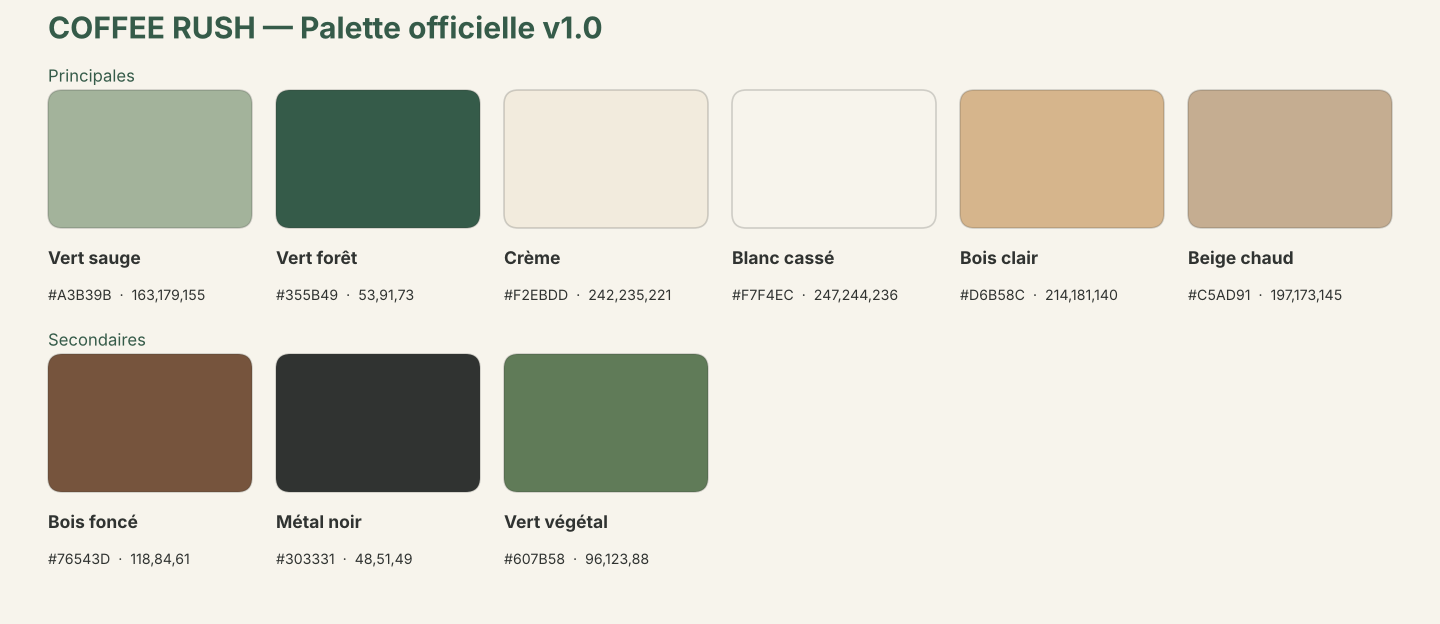
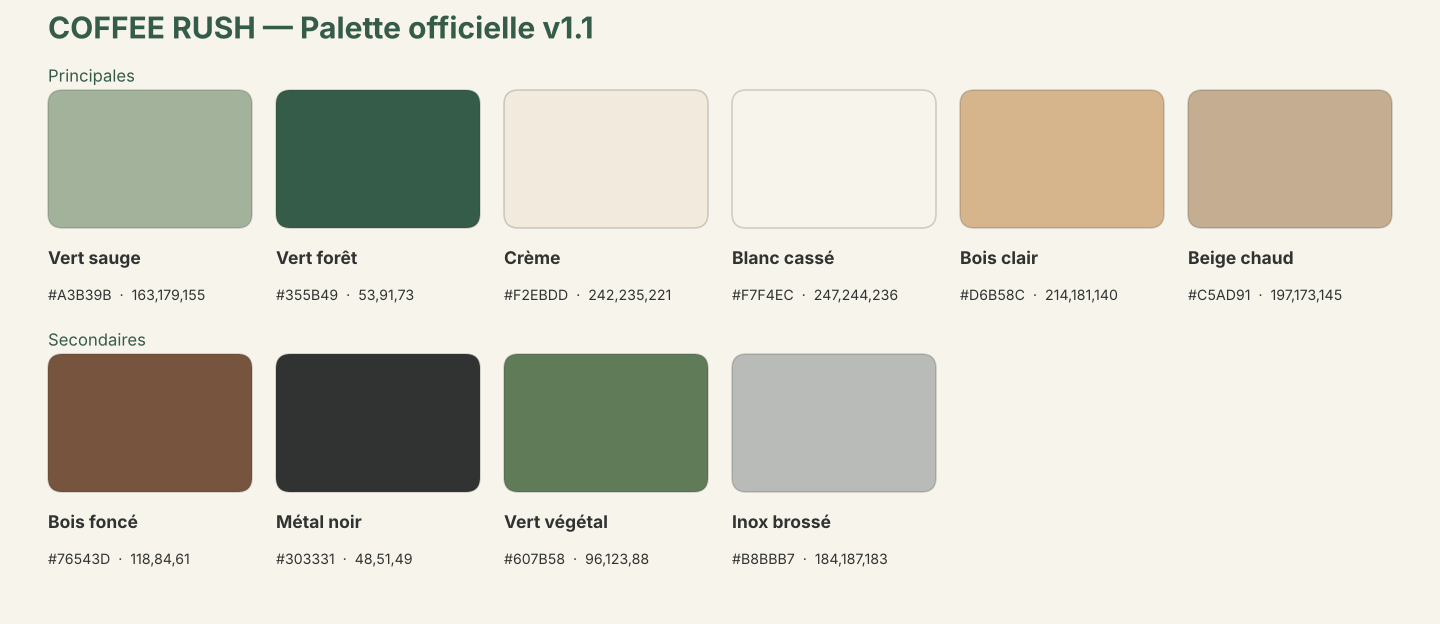
Ajout de 4 matériaux validés, inox brossé dans la palette (v1.1), lumière chaude douce
Claude-Session: https://claude.ai/code/session_01XcFTDRoiHJzw7Gpv8ipjTK

diff --git a/tools/blender/cr_01_scene_setup.py b/tools/blender/cr_01_scene_setup.py
@@ -7,7 +7,7 @@ Ce que fait le script (sans rien supprimer de la scène) :
      pieds au sol, face avant vers -Y, non sélectionnable et exclu du rendu.
   3. Ajoute des repères de hauteur (plan de travail, hanche, coude, épaule, yeux)
      tirés de standards/ergonomie.json.
-  4. Crée ou met à jour les 10 matériaux officiels (materials/materials.json).
+  4. Crée ou met à jour les matériaux officiels (materials/materials.json).
      Si des textures existent dans materials/<ID>/, elles sont branchées automatiquement.
 
 Utilisation : Blender > onglet Scripting > ouvrir ce fichier > Run Script.

diff --git a/docs/07_DIRECTION_ARTISTIQUE.md b/docs/07_DIRECTION_ARTISTIQUE.md
@@ -1,7 +1,7 @@
 # 07 · Direction artistique du magasin
 
 > Validé le 20/11/2026 : l'ambiance générale du magasin suit les 4 images de [`references/moodboard/`](../references/moodboard/).
-> Ce document traduit ces images en règles et en liste d'assets. Les matériaux marqués **NOUVEAU** attendent une validation (§7).
+> Ce document traduit ces images en règles et en liste d'assets. Les matériaux marqués **NOUVEAU** ont été ajoutés à la bibliothèque le 20/11/2026.
 
 | Plan isométrique | Coin machines | Vue de la salle | Photo réelle |
 |---|---|---|---|
@@ -26,7 +26,7 @@ Un coffee shop cosy et lumineux : murs crème, crédence de carrelage vert forê
 | Chaises | Assise beige, pieds fins foncés | FABRIC_WARM_BEIGE + METAL_MATTE_BLACK |
 | Luminaires | Suspensions sauge en dôme, spots sur rail noir | SAGE_PAINT + METAL_MATTE_BLACK |
 | Plantes | Pots blanc cassé, feuillage simple en gros volumes | CERAMIC_OFF_WHITE + **NOUVEAU** FOLIAGE_GREEN |
-| Ardoises / menus | Cadre bois clair, fond vert forêt | WOOD_OAK_LIGHT + **NOUVEAU** PAINT_FOREST_GREEN |
+| Ardoises / menus | Cadre bois clair, fond noir mat | WOOD_OAK_LIGHT + fond METAL_MATTE_BLACK (ardoise noire ; PAINT_FOREST_GREEN non retenu) |
 | Porte d'entrée | Double porte vert forêt vitrée | à définir avec le bâtiment |
 | Sol | Carrelage beige (texture de Hugo) | FLOOR_BEIGE_STONE |
 
@@ -39,11 +39,16 @@ Formes : arrondis doux (tables rondes, angles de comptoir), répétition de lame
 - Les plans de travail encombrés : dans le jeu, un plan ne porte que la machine de sa case et éventuellement une plante. La lisibilité en vue du dessus passe avant (§3).
 - Les vitres et transparences en couches (vitrine, bocaux) : une seule surface transparente par objet (performances).
 
-## Machines : une question de palette
+## Machines
 
-Sur les références, les machines sont **en inox et en noir**. La palette v1.0 n'a pas de gris acier. Deux options :
-1. Rester dans la palette : corps METAL_MATTE_BLACK, panneaux CERAMIC_OFF_WHITE ou SAGE_PAINT, détails en bois clair.
-2. Ajouter **NOUVEAU** METAL_BRUSHED_STEEL (inox brossé, gris clair) : plus fidèle aux images, mais c'est une couleur en plus dans la palette.
+Validé le 20/11/2026 : machines **en inox brossé et noir mat**, comme les références.
+- Corps et grandes surfaces : **NOUVEAU** METAL_BRUSHED_STEEL (Inox brossé #B8BBB7, ajouté à la palette).
+- Poignées, boutons, socles, porte-filtres : METAL_MATTE_BLACK.
+- Pas de cadrans ni d'écrans détaillés : de simples formes (disque, rectangle) suffisent.
+
+## Lumière
+
+Validé le 20/11/2026 : **chaude douce**. L'ambiance cosy des références, sans jaunir les couleurs de la palette ni gêner la lisibilité en vue du dessus pendant les rushs. Les réglages Lighting de Studio seront calés sur ce principe quand le magasin sera assemblé.
 
 ## Organisation du magasin (d'après le plan isométrique)
 

diff --git a/docs/06_QUESTIONS_OUVERTES.md b/docs/06_QUESTIONS_OUVERTES.md
@@ -5,8 +5,6 @@ Décisions à prendre par Hugo. Une fois tranchée, la réponse va dans le docum
 | # | Question | Pourquoi c'est important | Options / proposition |
 |---|---|---|---|
 | 6 | **Orientation après import** (voir doc 05) | Éviter que tous les assets arrivent tournés de 180°. | Test à faire ensemble dans Studio |
-| 8 | **Nouveaux matériaux pour le magasin** (voir doc 07) | Les images de référence utilisent des murs crème, une banquette sauge, des plantes, des ardoises vert forêt et des machines en inox, absents de la bibliothèque. | Valider ou refuser PAINT_CREAM, FABRIC_SAGE, FOLIAGE_GREEN, PAINT_FOREST_GREEN (couleurs déjà dans la palette) et METAL_BRUSHED_STEEL (nouvelle couleur) |
-| 9 | **Lumière chaude ou neutre ?** | Les références ont une lumière dorée ; le jeu actuel a été réglé en lumière neutre pour la lisibilité. Change le rendu de toute la palette. | Chaude comme les références · neutre comme aujourd'hui · chaude douce |
 | 7 | **Roughness / metallic / répétition des matériaux** | Valeurs proposées dans `materials.json`, à confirmer avec les vraies textures. | À valider quand les textures seront déposées |
 
 ## Décisions prises
@@ -19,3 +17,6 @@ Décisions à prendre par Hugo. Une fois tranchée, la réponse va dans le docum
 | 20/11/2026 | Plan de travail : **4,0 studs** (Hugo repart de zéro). |
 | 20/11/2026 | Sol : **beige**, matériau FLOOR_BEIGE_STONE avec la texture de carrelage de Hugo. |
 | 20/11/2026 | Ambiance générale : les 4 images de `references/moodboard/` (voir doc 07). |
+| 20/11/2026 | Nouveaux matériaux : PAINT_CREAM, FABRIC_SAGE, FOLIAGE_GREEN, METAL_BRUSHED_STEEL ; PAINT_FOREST_GREEN non retenu. |
+| 20/11/2026 | Palette : ajout de l'**Inox brossé #B8BBB7** pour les machines. |
+| 20/11/2026 | Lumière du magasin : **chaude douce**. |

diff --git a/docs/04_MATERIAUX_TEXTURES.md b/docs/04_MATERIAUX_TEXTURES.md
@@ -1,6 +1,6 @@
 # 04 · Matériaux et textures
 
-La liste des 10 matériaux officiels (§7 des règles) est dans [`materials/materials.json`](../materials/materials.json).
+La liste des 10 matériaux officiels (§7 des règles), plus 4 matériaux validés le 20/11/2026, est dans [`materials/materials.json`](../materials/materials.json).
 Chaque matériau a son dossier `materials/<ID>/` où déposer ses textures.
 
 | ID | Couleur de base | Type | Cartes attendues | État |
@@ -15,6 +15,10 @@ Chaque matériau a son dossier `materials/<ID>/` où déposer ses textures.
 | METAL_MATTE_BLACK | Métal noir #303331 | uni | — | couleur unie |
 | CERAMIC_OFF_WHITE | Blanc cassé #F7F4EC | uni | — | couleur unie |
 | GLASS_CLEAR | Blanc cassé #F7F4EC, transparent | uni | — | couleur unie |
+| PAINT_CREAM *(ajout 20/11)* | Crème #F2EBDD | répétable | Color, Roughness | textures à fournir |
+| FABRIC_SAGE *(ajout 20/11)* | Vert sauge #A3B39B | répétable (côtes verticales) | Color, Normal | textures à fournir |
+| FOLIAGE_GREEN *(ajout 20/11)* | Vert végétal #607B58 | uni | — | couleur unie |
+| METAL_BRUSHED_STEEL *(ajout 20/11)* | Inox brossé #B8BBB7 (nouvelle couleur de palette) | uni | — | couleur unie |
 
 Roughness, metallic et taille de répétition dans le JSON = **propositions** à valider.
 

diff --git a/README.md b/README.md
@@ -41,7 +41,7 @@ assets/<Catégorie>/CR_<Catégorie>_<Nom>/   livrables : GLB, textures/, fiche_t
 
 ## Workflow en 3 scripts (Blender ≥ 4.2)
 
-1. `tools/blender/cr_01_scene_setup.py` — unités en studs, mannequin R15, repères de hauteur, 10 matériaux officiels (textures branchées automatiquement).
+1. `tools/blender/cr_01_scene_setup.py` — unités en studs, mannequin R15, repères de hauteur, matériaux officiels (textures branchées automatiquement).
 2. `tools/blender/cr_02_new_asset.py` — crée `<Nom>_ROOT` avec catégorie, nom, version, type de pivot.
 3. `tools/blender/cr_03_check_and_export.py` — contrôle (noms, échelles, triangles, matériaux, pivot) puis exporte `CR_<Catégorie>_<Nom>_V01.glb` + fiche technique + aperçu.
 

diff --git a/docs/05_PIPELINE_BLENDER_ROBLOX.md b/docs/05_PIPELINE_BLENDER_ROBLOX.md
@@ -8,7 +8,7 @@ Blender > *Scripting* > ouvrir `tools/blender/cr_01_scene_setup.py` > **Run Scri
 Résultat :
 - Unités : *Unit System = None*, rotations en degrés → **1 unité Blender = 1 stud**.
 - Collection `REF_CoffeeRush` : mannequin R15 (échelle verrouillée, exclu du rendu et de l'export) + repères de hauteur `GUIDE_…`.
-- Les 10 matériaux officiels, avec leurs textures si elles sont dans `materials/`.
+- Les matériaux officiels, avec leurs textures si elles sont dans `materials/`.
 
 ## 2. Créer l'asset
 
